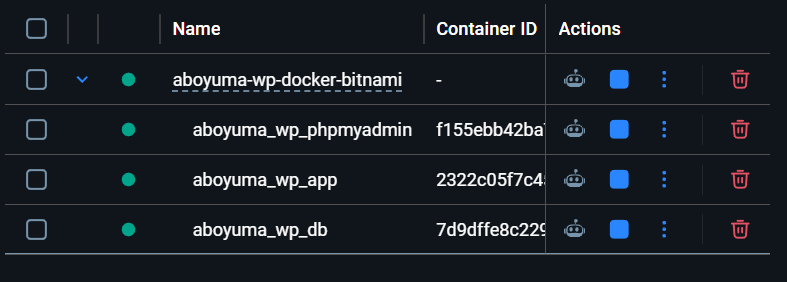
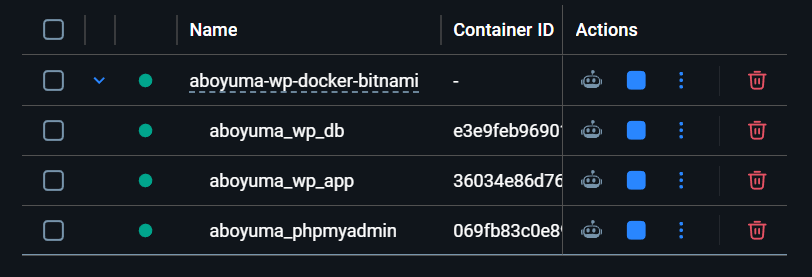
refactor: rename phpMyAdmin container and update README

diff --git a/README.md b/README.md
@@ -19,7 +19,7 @@ aboyuma/                                 # Project workspace
 ├── aboyuma-wordpress/                   # WordPress development workspace
 │   ├── aboyuma-wp-docker-bitnami/       # Infrastructure (this project)
 │   ├── wordpress/                       # WordPress content (bind-mounted)
-│   └── migration/                       # Migration scripts / database backup
+│   └── migration/                       # WordPress files / database backup
 └── aboyuma-content/                     # WordPress content workspace
 ```
 
